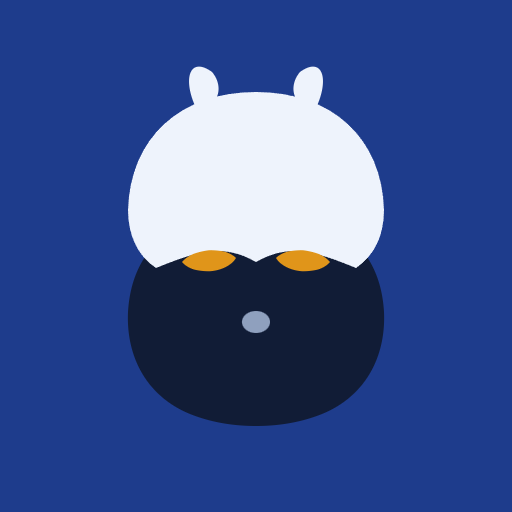
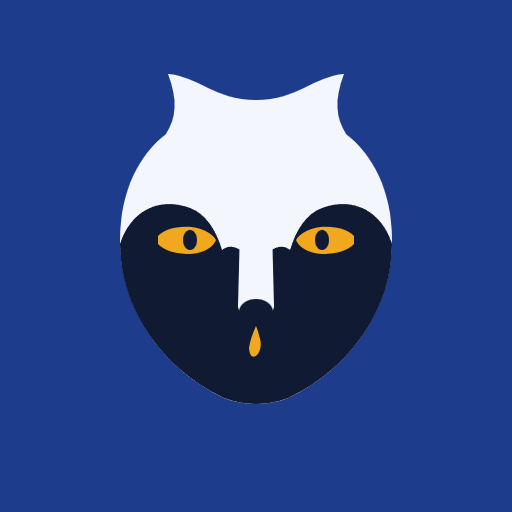
icona step 2

Changed region(s): [[0.2188, 0.375, 0.7812, 0.8438], [0.25, 0.125, 0.75, 0.375]]

diff --git a/index.html b/index.html
@@ -13,14 +13,14 @@
 <meta name="apple-mobile-web-app-title" content="Basket Stats">
 <link rel="icon" type="image/svg+xml" href="icon.svg">
 <link rel="apple-touch-icon" href="icon-180.png">
-<link rel="stylesheet" href="css/tokens.css?v=22">
-<link rel="stylesheet" href="css/base.css?v=22">
-<link rel="stylesheet" href="css/shell.css?v=22">
-<link rel="stylesheet" href="css/partita.css?v=22">
-<link rel="stylesheet" href="css/altro.css?v=22">
-<link rel="stylesheet" href="css/calendario.css?v=22">
-<link rel="stylesheet" href="css/roster.css?v=22">
-<link rel="stylesheet" href="css/stats.css?v=22">
+<link rel="stylesheet" href="css/tokens.css?v=23">
+<link rel="stylesheet" href="css/base.css?v=23">
+<link rel="stylesheet" href="css/shell.css?v=23">
+<link rel="stylesheet" href="css/partita.css?v=23">
+<link rel="stylesheet" href="css/altro.css?v=23">
+<link rel="stylesheet" href="css/calendario.css?v=23">
+<link rel="stylesheet" href="css/roster.css?v=23">
+<link rel="stylesheet" href="css/stats.css?v=23">
 </head>
 <body>
 
@@ -524,18 +524,18 @@
 <div id="toast"></div>
 
 <!-- ===================== SCRIPTS ===================== -->
-<script src="js/state.js?v=22"></script>
-<script src="js/tema.js?v=22"></script>
-<script src="js/api.js?v=22"></script>
-<script src="js/timer.js?v=22"></script>
-<script src="js/azioni.js?v=22"></script>
-<script src="js/fallo-subito.js?v=22"></script>
-<script src="js/calendario.js?v=22"></script>
-<script src="js/giocatori.js?v=22"></script>
-<script src="js/stats.js?v=22"></script>
-<script src="js/ui.js?v=22"></script>
-<script src="js/pin.js?v=22"></script>
-<script src="js/app.js?v=22"></script>
+<script src="js/state.js?v=23"></script>
+<script src="js/tema.js?v=23"></script>
+<script src="js/api.js?v=23"></script>
+<script src="js/timer.js?v=23"></script>
+<script src="js/azioni.js?v=23"></script>
+<script src="js/fallo-subito.js?v=23"></script>
+<script src="js/calendario.js?v=23"></script>
+<script src="js/giocatori.js?v=23"></script>
+<script src="js/stats.js?v=23"></script>
+<script src="js/ui.js?v=23"></script>
+<script src="js/pin.js?v=23"></script>
+<script src="js/app.js?v=23"></script>
 
 </body>
 </html>

diff --git a/sw.js b/sw.js
@@ -1,5 +1,5 @@
 /* Service worker — network-first (sempre fresco online, funziona offline) */
-const CACHE = "bsp-v22";
+const CACHE = "bsp-v23";
 const CORE = ["./", "./index.html", "./icon.svg", "./manifest.webmanifest"];
 
 self.addEventListener("install", e => {

diff --git a/docs/HANDOFF.md b/docs/HANDOFF.md
@@ -1,7 +1,7 @@
 # Basket Stats Pro — Documento di handoff / specifica
 
 > Serve a **riprendere il progetto da zero in una nuova chat**. Da fornire insieme a `CLAUDE.md` e ai file sorgente (o al link del repo).
-> Ultimo aggiornamento: settembre 2026 · deploy asset `?v=22` · SW `bsp-v22` · backend V4.8.
+> Ultimo aggiornamento: settembre 2026 · deploy asset `?v=23` · SW `bsp-v23` · backend V4.8.
 
 ---
 
@@ -45,8 +45,8 @@ PWA per segnare le statistiche di una partita di basket **in tempo reale**, pens
 - Se cambia l'URL `/exec`, aggiorna `CONFIG.APPS_SCRIPT_URL` in `js/state.js`.
 - `setupSheet()` è **idempotente e non distruttivo** (crea fogli/intestazioni se mancano, semina l'admin solo se `Utenti` è vuoto). Sicuro da rilanciare.
 
-### Icone PWA — FATTE (v22)
-Sorgenti: `icon.svg` (tasso del miele stilizzato, palette PVL — cresta bianca, maschera scura, occhi ambra) e `icon-maskable.svg` (stesso disegno all'80%, dentro la safe zone Android).
+### Icone PWA — FATTE (v23)
+Sorgenti: `icon.svg` (muso del tasso, palette PVL — cresta bianca, maschera scura, canna del naso chiara, occhi ambra con pupilla, goccia di miele) e `icon-maskable.svg` (stesso disegno all'80%, dentro la safe zone Android — generato da `genera-icone.sh`).
 PNG in root: `icon-180.png` (apple-touch), `icon-192.png`, `icon-512.png`, `icon-maskable.png`.
 Rigenerare dopo una modifica ai `.svg`: `bash scripts/genera-icone.sh` (usa Chrome headless, nessuna dipendenza), poi `node scripts/bump.mjs`.
 
